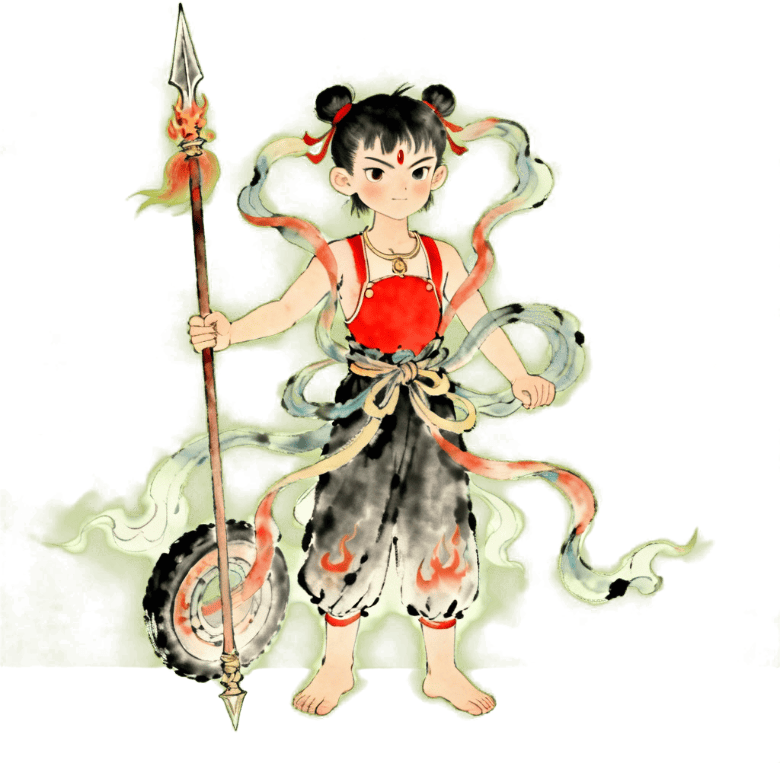
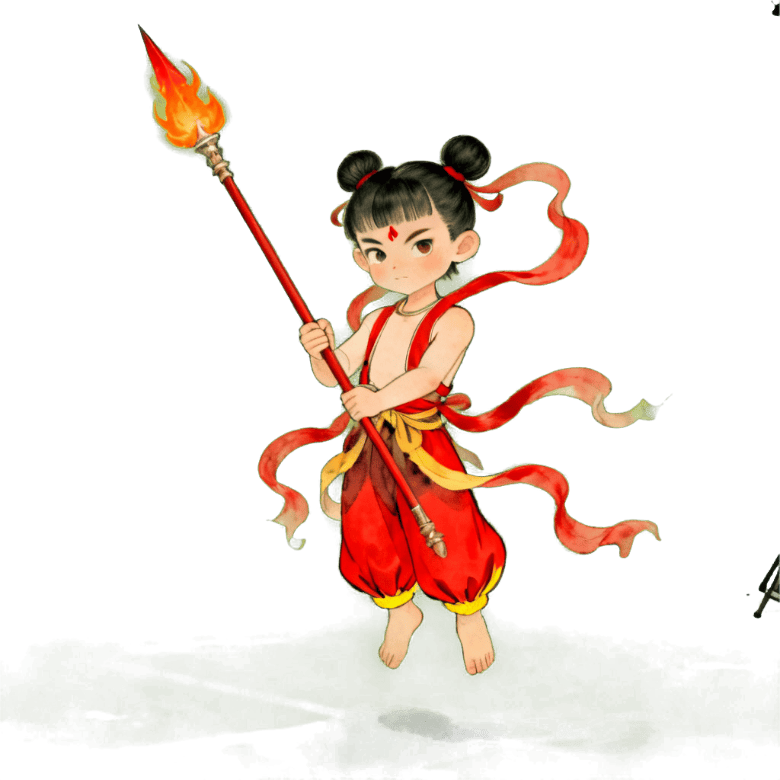
fix(art): 首页头像框立绘双轴居中 + 哪吒重绘回无风火轮悬浮版
- menu.ts 头像绘制此前固定画在框内左上角：瘦高立绘（唐僧 0.72 / 观音
  0.67 / 沙僧 0.85）按短边缩放后左右有余量 → 全部偏左。改为双轴居中。
- hero-nezha 立绘被 3339157「站立落地」整批重绘时带回了风火轮（历史上
  01c6ad5 已去除过，Seedream 画轮必成轮胎质感）。重跑 regen-nezha-no-wheel
  脚本回悬浮纯火焰枪版：双脚收于身下、混天绫+火尖枪保持动态；780×780
  方图（此前 780×763 偏高），pngquant 444KB→100KB，已 tos-upload 重算
  manifest。

验证：avatar-center-smoke 真机四头像截图核对（唐僧/沙僧/观音居中、哪吒
无轮且高度与其它一致）；tsc 26=基线。

diff --git a/web/src/game-assets/manifest-generated.ts b/web/src/game-assets/manifest-generated.ts
@@ -28,7 +28,7 @@ export const HASHED_URLS: Record<string, string> = {
   "hero-laojun.png": "https://user-growth.tos-cn-shanghai.volces.com/dev/xy/hero-laojun-ffb1aa61.png",
   "hero-liusha.png": "https://user-growth.tos-cn-shanghai.volces.com/dev/xy/hero-liusha-48e6d774.png",
   "hero-mile.png": "https://user-growth.tos-cn-shanghai.volces.com/dev/xy/hero-mile-8aff9657.png",
-  "hero-nezha.png": "https://user-growth.tos-cn-shanghai.volces.com/dev/xy/hero-nezha-54a4dcc6.png",
+  "hero-nezha.png": "https://user-growth.tos-cn-shanghai.volces.com/dev/xy/hero-nezha-7792bc02.png",
   "hero-niulang.png": "https://user-growth.tos-cn-shanghai.volces.com/dev/xy/hero-niulang-4af35259.png",
   "hero-niumowang.png": "https://user-growth.tos-cn-shanghai.volces.com/dev/xy/hero-niumowang-ae9c378d.png",
   "hero-qingniu.png": "https://user-growth.tos-cn-shanghai.volces.com/dev/xy/hero-qingniu-bfe89715.png",

diff --git a/web/src/menu.ts b/web/src/menu.ts
@@ -241,7 +241,11 @@ export function drawMenu(ctx: CanvasRenderingContext2D, info: MenuInfo): void {
   if (av) {
     const s = AVATAR.w - 8;
     const scale = Math.min(s / av.width, s / av.height);
-    ctx.drawImage(av, AVATAR.x + 4, AVATAR.y + 4, av.width * scale, av.height * scale);
+    const dw = av.width * scale;
+    const dh = av.height * scale;
+    // 长宽比非 1:1 的立绘（唐僧 0.72 / 观音 0.67 / 沙僧 0.85 等）按短边缩放后仍有余量，
+    // 必须双轴居中——此前固定画在 (x+4, y+4) 左上角，瘦高立绘在头像框里全部偏左。
+    ctx.drawImage(av, AVATAR.x + 4 + (s - dw) / 2, AVATAR.y + 4 + (s - dh) / 2, dw, dh);
   }
 
   drawInkResourceBar(ctx, MERIT_BAR, '功德', `${info.merit}/${MERIT_MAX}`, 0, 'icon-merit');
